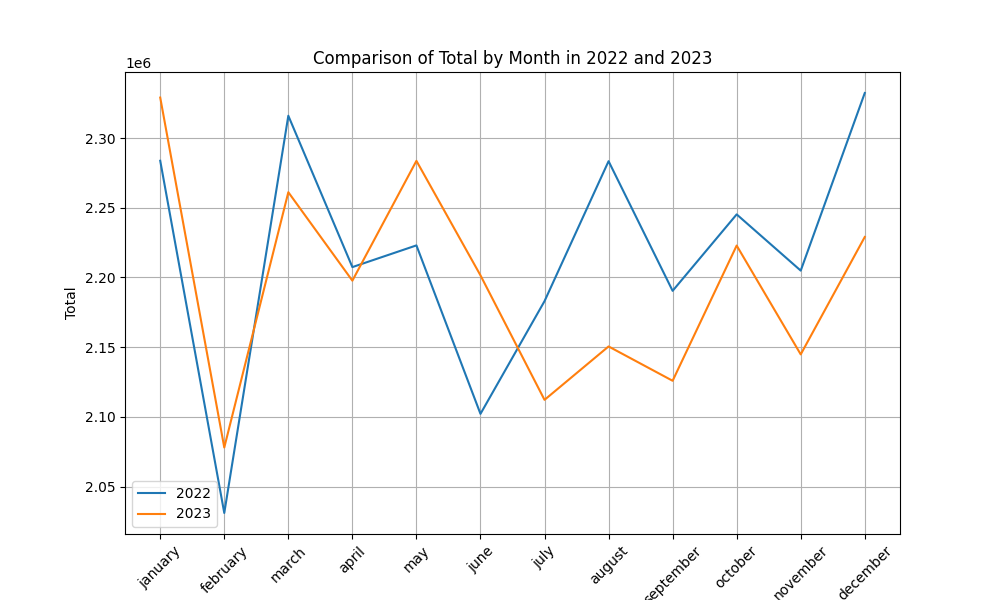
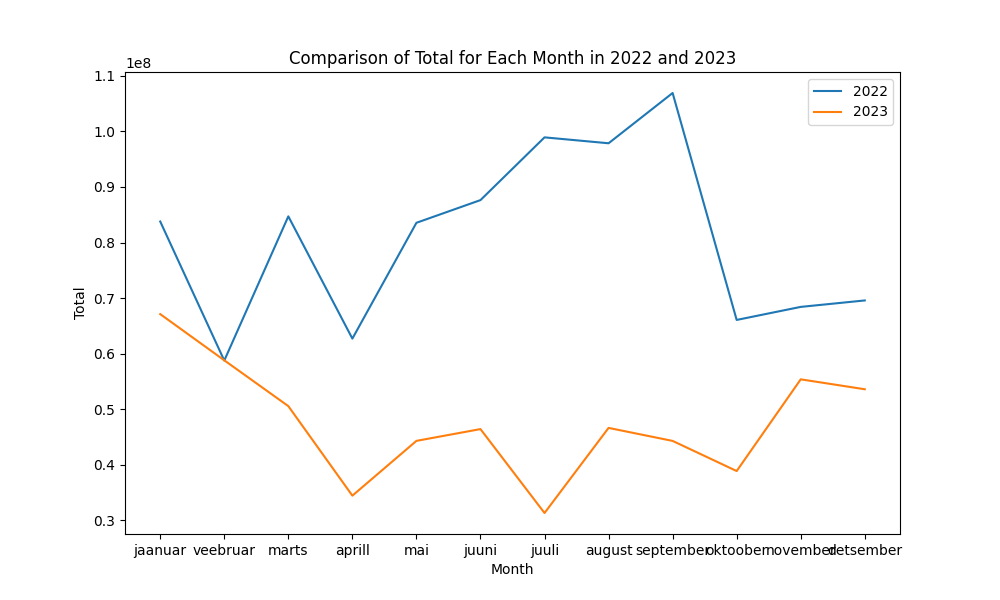
feat: added flask server

diff --git a/llm/code_generator/translate.py b/llm/code_generator/translate.py
@@ -1,3 +1,5 @@
+
+'''
 import os
 from dotenv import load_dotenv
 import google.generativeai as genai
@@ -16,7 +18,7 @@ class Translator:
         self.api_key = os.getenv("GOOGLE_API")
         if not self.api_key:
             raise ValueError("API key is not set. Please configure GOOGLE_API in your .env file.")
-        
+
         # Configure Generative AI
         genai.configure(api_key=self.api_key)
 
@@ -46,3 +48,50 @@ class Translator:
         # Generate content using the Pro model
         response = self.model.generate_content(prompt)
         return response.text.strip()
+'''
+import os
+from dotenv import load_dotenv
+from groq import Groq
+
+class Translator:
+    """
+    A class to handle translation between Estonian and English using the Llama70B model via the Groq client.
+    """
+
+    def __init__(self):
+        """Initialize the Translator class by configuring the Groq client and setting the model."""
+        # Load API key from .env file
+        load_dotenv()
+        self.api_key = os.getenv("GROQ_API_KEY")
+        if not self.api_key:
+            raise ValueError("API key is not set. Please configure GROQ_API_KEY in your .env file.")
+
+        # Configure Groq client
+        self.client = Groq(api_key=self.api_key)
+
+        # Set the model name (use 'llama70b' or the appropriate model identifier)
+        self.model_name = os.getenv("GROQ_MODEL_NAME", "llama-3.1-70b-versatile")  # Default to llama-2-70b-chat-4k if not set
+
+    def _get_chatbot_response(self, messages, temperature=0.2):
+        """Private method to get response from the Groq client."""
+        response = self.client.chat.completions.create(
+            model=self.model_name,
+            messages=messages,
+            temperature=temperature,
+            max_tokens=1000,
+        )
+        return response.choices[0].message.content.strip()
+
+    def translate_est_to_eng(self, estonian_text):
+        """Translate Estonian text to English using the Llama70B model."""
+        prompt = f"Translate the following Estonian text to English:\n\n{estonian_text}\n\nTranslation:"
+        messages = [{"role": "user", "content": prompt}]
+        translation = self._get_chatbot_response(messages)
+        return translation
+
+    def translate_eng_to_est(self, english_text):
+        """Translate English text to Estonian using the Llama70B model."""
+        prompt = f"Translate the following English text to Estonian:\n\n{english_text}\n\nTranslation:"
+        messages = [{"role": "user", "content": prompt}]
+        translation = self._get_chatbot_response(messages)
+        return translation

diff --git a/llm/generated_visualization.py b/llm/generated_visualization.py
@@ -4,35 +4,31 @@ import matplotlib.pyplot as plt
 import numpy as np
 
 # Load the data from the CSV file
-# The CSV file is assumed to be in the same directory as the script
-# The 'sep' parameter is set to ',' to specify that the values are comma-separated
-data = pd.read_csv('../scrape-and-modify-data/output/t_awtabel002_02_curr copy.csv')
+data = pd.read_csv('./data/data.csv')
 
-# Filter the data to only include the years 2022 and 2023
-# This is based on the user's requirement to compare these two years
-data_2022 = data[data['reporting_year'] == 2022]
-data_2023 = data[data['reporting_year'] == 2023]
+# Filter the data for 2022 and 2023
+data_2022 = data[data['aruandeaasta'] == 2022]
+data_2023 = data[data['aruandeaasta'] == 2023]
 
 # Calculate the total for each month in 2022 and 2023
-# This is done by summing up the values for each month across all stations
-total_2022 = data_2022[['january', 'february', 'march', 'april', 'may', 'june', 
-                        'july', 'august', 'september', 'october', 'november', 'december']].sum()
-total_2023 = data_2023[['january', 'february', 'march', 'april', 'may', 'june', 
-                        'july', 'august', 'september', 'october', 'november', 'december']].sum()
+months = ['jaanuar', 'veebruar', 'marts', 'aprill', 'mai', 'juuni', 'juuli', 'august', 'september', 'oktoober', 'november', 'detsember']
+total_2022 = data_2022[months].sum()
+total_2023 = data_2023[months].sum()
 
 # Create a line plot to compare the total for each month in 2022 and 2023
-# The x-axis represents the months, and the y-axis represents the total
-plt.figure(figsize=(10,6))  # Set the figure size
-plt.plot(total_2022.index, total_2022.values, label='2022')  # Plot the data for 2022
-plt.plot(total_2023.index, total_2023.values, label='2023')  # Plot the data for 2023
-plt.xlabel('Month')  # Set the x-axis label
-plt.ylabel('Total')  # Set the y-axis label
-plt.title('Comparison of Total by Month in 2022 and 2023')  # Set the title
-plt.legend()  # Display the legend
-plt.grid(True)  # Display the grid
-plt.xticks(rotation=45)  # Rotate the x-axis labels for better readability
+plt.figure(figsize=(10,6))
+plt.plot(months, total_2022, label='2022')
+plt.plot(months, total_2023, label='2023')
 
-# Save the plot as a PNG file
+# Add title and labels
+plt.title('Comparison of Total for Each Month in 2022 and 2023')
+plt.xlabel('Month')
+plt.ylabel('Total')
+
+# Add legend
+plt.legend()
+
+# Save the visualization as 'output_visualization.png'
 plt.savefig('output_visualization.png')
 
 # Display the plot

diff --git a/llm/code_generator/viz_gen.py b/llm/code_generator/viz_gen.py
@@ -52,7 +52,7 @@ Generate Python code that creates a clear and professional visualization using m
 5. End with plt.show()
 
 Provide only the Python code with comments."""
-        
+
         messages = [{'role': 'user', 'content': prompt}]
         code = self._get_chatbot_response(messages, temperature=0.2)
         return code
@@ -94,7 +94,9 @@ Provide only the Python code with comments."""
             print("\nVeergude nimed ja andmetüübid:")
             print(df.dtypes)
 
-            user_requirements = input("\nPalun kirjeldage, millist visualiseerimist soovite luua: ")
+            # user_requirements = input("\nPalun kirjeldage, millist visualiseerimist soovite luua: ")
+            # Post request peab siia suutma prompti
+            user_requirements = "genereeri 2022 ja 2023 aastate võrdlus"
             working_code = None  # Store the working code for iterative updates
 
             while True:
@@ -128,7 +130,8 @@ Provide only the Python code with comments."""
                 self.save_and_execute_code(working_code, output_file)
 
                 # Ask the user if they are satisfied
-                satisfaction = input("\nKas olete loodud visualiseerimiskoodiga rahul? (jah/ei): ").strip().lower()
+                # satisfaction = input("\nKas olete loodud visualiseerimiskoodiga rahul? (jah/ei): ").strip().lower()
+                satisfaction = "jah"
                 if satisfaction in ['jah', 'j']:
                     print("Visualization finalized and saved successfully.")
                     break

diff --git a/llm/server.py b/llm/server.py
@@ -1,0 +1,29 @@
+from flask import Flask, request, send_file
+from io import BytesIO
+import visualization_generation
+
+
+app = Flask(__name__)
+
+@app.route('/generate-image', methods=['POST'])
+def generate_image():
+    #input_string = request.json.get('input')  # Receive input string
+    # Generate the image from the input string (e.g., via some image generation library)
+
+    visualization_generation.generate_visualization()
+
+    img_path = "/app/output_visualization.png"
+
+    # Load the image from the file
+    with open(img_path, 'rb') as img_file:
+        img_data = img_file.read()
+
+    # Save the image to a BytesIO object
+    img_io = BytesIO(img_data)
+    img_io.seek(0)
+
+    # Return the image as a response
+    return send_file(img_io, mimetype='image/png', as_attachment=True, download_name='output.png')
+
+if __name__ == '__main__':
+    app.run(host='0.0.0.0', port=5001)

diff --git a/llm/visualization_generation.py b/llm/visualization_generation.py
@@ -1,14 +1,14 @@
 from code_generator import VisualizationGenerator
 
 
-def main():
+def generate_visualization():
     # Initialize the VisualizationGenerator (which includes the ReviewerAgent)
     viz_gen = VisualizationGenerator()
-    
+
     # Example with CSV file
-    csv_path = "../scrape-and-modify-data/output/t_awtabel002_02_curr copy.csv"
+    csv_path = "./data/data.csv"
     description = "Vee andmestik"
-    
+
     try:
         print("Generating initial visualization code...")
         # Generate and process visualization code directly
@@ -16,9 +16,9 @@ def main():
             csv_path=csv_path,
             data_description=description
         )
-        
+
         print("Visualization pipeline completed successfully!")
-        
+
     except Exception as e:
         print(f"Error in visualization pipeline: {str(e)}")
 
